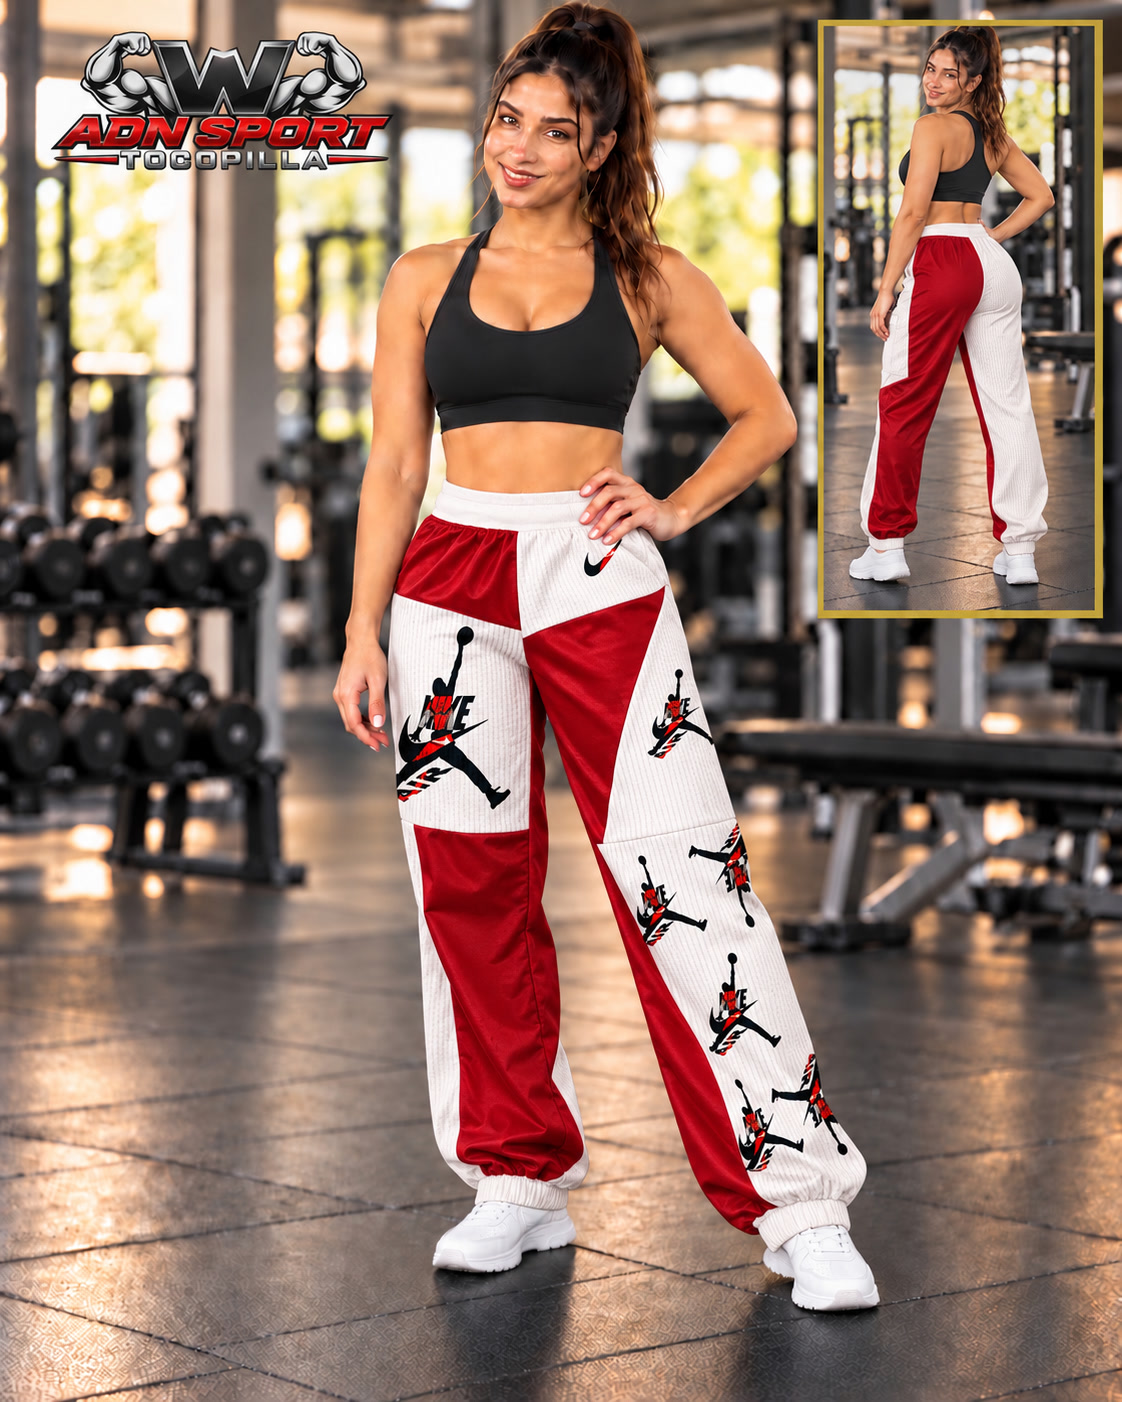
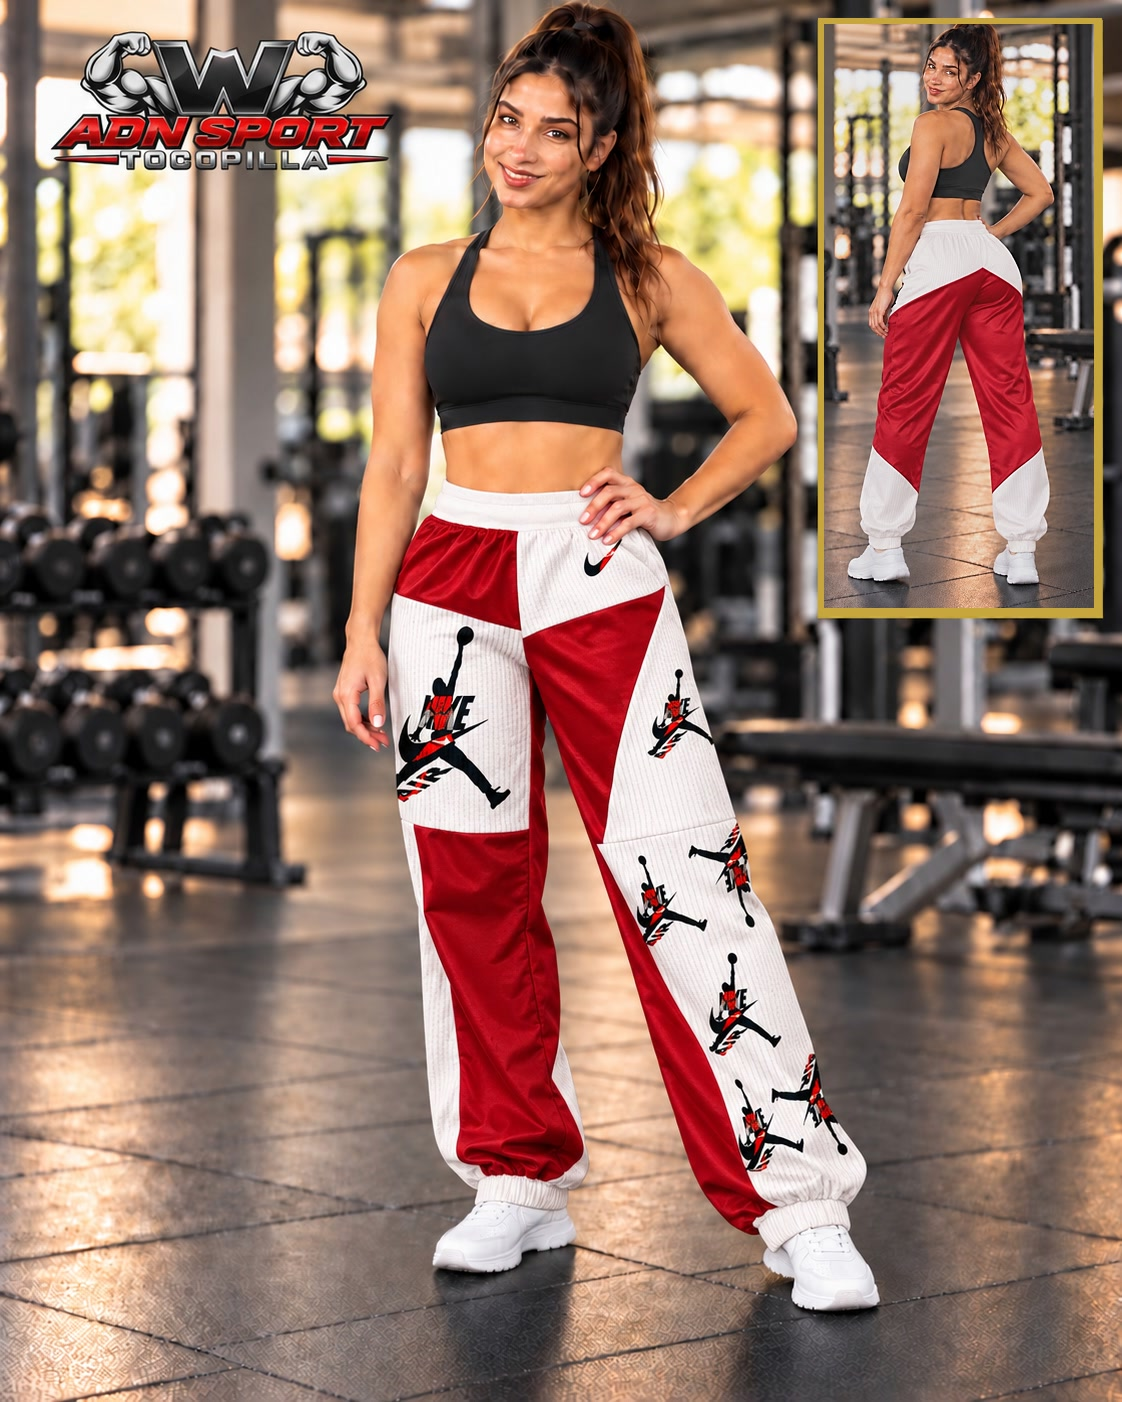
Tienda: cuadro de espaldas correcto en el pantalón jogger blanco y rojo (FOTO_V 45)
Claude-Session: https://claude.ai/code/session_013ZgZPSRHEDhMsqmx8Km842

Changed region(s): [[0.7175, 0.0, 0.9982, 0.4601], [0.7175, 0.2454, 0.7487, 0.276], [0.3743, 0.4907, 0.4055, 0.5214]]

diff --git a/tienda.html b/tienda.html
@@ -221,7 +221,7 @@ function hoyISO(){ return new Intl.DateTimeFormat("en-CA", { timeZone:"America/S
 function ahoraTxt(){ var f = new Intl.DateTimeFormat("sv-SE", { timeZone:"America/Santiago", year:"numeric", month:"2-digit", day:"2-digit", hour:"2-digit", minute:"2-digit" }).format(new Date()); return f.replace("T", " ").slice(0, 16); }
 function normTxt(s){ return String(s || "").toUpperCase().normalize("NFD").replace(/[̀-ͯ]/g, ""); }
 /* Al cambiar una foto en img/tienda/ (mismo nombre), subir FOTO_V para que los teléfonos no muestren la antigua. */
-var FOTO_V = "44";
+var FOTO_V = "45";
 function fotoUrl(f){ return f ? f + (f.indexOf("?") < 0 ? "?v=" + FOTO_V : "") : ""; }
 function iconoCat(c){ var x = CATS.filter(function(k){ return k[0] === c; })[0]; return x ? x[1] : "📦"; }
 function toast(t, ms){ var el = $("toast"); el.textContent = t; el.style.display = "block"; clearTimeout(toast.t); toast.t = setTimeout(function(){ el.style.display = "none"; }, ms || 2600); }
@@ -303,7 +303,7 @@ setInterval(function(){ if(pend.length) enviarPendientes(); }, 30000);
    el computador"): los datos se vuelven a pedir a la planilla cada 30 s mientras la página está a la vista (sin una ficha
    abierta), y cada minuto se revisa tienda-version.txt: si hay una versión nueva de la página, se recarga sola.
    Cada vez que se cambie tienda.html, subir TIENDA_VERSION y tienda-version.txt juntos (AAAAMMDDNN). */
-var TIENDA_VERSION = "2026102539";
+var TIENDA_VERSION = "2026102601";
 setInterval(function(){ if(clave && !document.hidden && $("velo").hidden && !$("app").hidden) enviarPendientes().then(function(){ cargar(true); }); }, 30000);
 function revisarVersion(){
  fetch("tienda-version.txt?t=" + Date.now(), { cache:"no-store" }).then(function(r){ return r.ok ? r.text() : ""; }).then(function(v){

diff --git a/tarjeta.html b/tarjeta.html
@@ -2443,7 +2443,7 @@ function renderEvolucion(s){
     oculta con «Ya no lo vendo» no llega. «Lo quiero» abre una ventanita (foto grande, cantidad, total)
     y después WhatsApp a Sara con el pedido. El stock solo baja cuando ella cobra en la tienda.
     Al cambiar una foto de img/tienda/ con el mismo nombre, subir TIENDA_FOTO_V junto con FOTO_V de tienda.html. */
- var TIENDA_FOTO_V = "44", TIENDA_WSP = "56975196394";
+ var TIENDA_FOTO_V = "45", TIENDA_WSP = "56975196394";
  /* Interruptor (25-10-2026, la dueña: "no quiero publicar la tienda el lunes porque compré ropa en Shein y no sé
     cuándo me llegaría"): en false la tarjeta no muestra la tienda aunque la Versión 25 esté instalada.
     Ponerlo en true (y subir TARJETA_VERSION) solo cuando ella lo pida. */
@@ -2560,7 +2560,7 @@ function renderEvolucion(s){
     compara TARJETA_VERSION con tarjeta-version.txt del sitio y, si hay
     una más nueva, la página se recarga sola (el nombre ya aparece
     puesto). Al cambiar tarjeta.html, subir los DOS números juntos. */
- var TARJETA_VERSION = "2026102504", ultimaRevisionVersion = 0;
+ var TARJETA_VERSION = "2026102601", ultimaRevisionVersion = 0;
 function recargarFresco_(v){
  /* Recarga pidiendo la página nueva (11-10-2026): location.reload() podía traer la copia
     guardada del teléfono (GitHub guarda la página ~10 min) y el socio seguía con la versión

diff --git a/CLAUDE.md b/CLAUDE.md
@@ -1538,7 +1538,7 @@ Versión 23). Celular y compu ven el mismo inventario.
   guardado como «Ropa deportiva» se muestra como «Ropa mujer»; en los enlaces usar `cat=Ropa%20mujer` o `cat=Ropa%20hombre`).
   Ropa deportiva de mujer (24-10-2026): cada talla y color es un producto aparte con su código 200… (la ropa no trae
   código). Conjunto Gym Work 3 piezas blanco/negro M ($13.609 → $22.000; foto de espaldas con la modelo + cuadro con la foto original del conjunto, en 900 px de alto), Short scrunch M.Minute negro S (foto `img/tienda/short-scrunch-negro.jpg`, con modelo + cuadro de espalda) y azul oscuro S (foto `img/tienda/short-scrunch-azul.jpg`, igual)
-  (pack de 2 por $7.512 → $3.756 c/u, venta $9.000), Conjunto Easithlete negro M ($8.568; foto con la modelo + cuadro de la espalda, 900 px), Leggings Yefecy negro M ($11.001 → $16.000; foto con modelo de frente + cuadro de espalda), Conjunto Easithlete a $15.000; short negro a $10.000. Ropa de hombre: Polera «Stronger every day» negra M ($7.204 → $13.000; modelo hombre de espaldas + cuadro de frente), Polera Rise LYT raglán negra M ($6.701 → $14.000; modelo hombre de espaldas + cuadro de frente; adelante el diseño de espinas ancho; atrás uno distinto, grande, con alas arriba y una punta larga por la columna), Polera Gym Rark «Never give up» negra M ($7.793 → $15.000; modelo de espaldas + cuadro de frente con el toro), Polera de compresión Gym Rark negra M ($7.051 → $13.000; modelo de espaldas: cuernos blancos grandes + franja roja larga por la columna; cuadro con el mismo modelo de frente con «AGILITY», hecho en ChatGPT), Polera «This is my therapy» negra L ($7.323 → $14.000; modelo de espaldas + cuadro de frente; adelante lleva el toro chico en el pecho izquierdo), Musculosa «//Strength» blanca y negra M ($8.000 → $11.000; foto con modelo hombre de ChatGPT), Musculosa «Boston EST.1997» gris M ($8.000 → $12.000), Musculosa Batman blanca M ($8.000 → $11.000). Short Jogging rojo M (25-10-2026, $7.000 → $13.000; foto `img/tienda/short-jogging-rojo.jpg`: modelo de frente con el logo + cuadro de lado con «JOGGING»; ChatGPT usó el modelo de las máquinas, no el de las poleras). Ropa mujer: Polera Cherry rosada crop S ($3.000 → $6.000) y Polera tie-dye negra y blanca crop S ($2.000 → $5.000), Calza flare camuflaje S-M ($7.000 → $10.000; modelo con el camuflaje verde oliva real + cuadro de espalda), Calza leopardo con malla S ($8.000 → $12.000; modelo de frente + cuadro de espalda hecho en ChatGPT), Calza tie-dye azul y amarilla M ($8.000 → $11.000; foto con modelo de lado + cuadro de frente), Calza tie-dye morada y negra con frunce M ($7.000 → $10.000; foto `img/tienda/calza-tie-dye-morada-negra.jpg`: modelo de espaldas + cuadro de frente); Pantalón cargo LA negro, talla S oversize (25-10-2026, 1 unidad, ya lo tiene: $19.000 → $25.000; foto `img/tienda/pantalon-cargo-la-negro.jpg`: modelo de frente con el logo «LA» + cuadro de espaldas); Pantalón cargo jogger azul marino M (26-10-2026, $8.000 → $14.000; foto `img/tienda/pantalon-cargo-jogger-azul.jpg`: modelo de frente + cuadro de espaldas); Pantalón jogger blanco y rojo M (26-10-2026, $5.000 → $10.000; estampados tipo Jordan/Nike Air: se carga sin «Nike» ni «Jordan» en el nombre; foto `img/tienda/pantalon-jogger-blanco-rojo.jpg`, ya armada por la dueña con logo y cuadro de espaldas); fotos con modelo hechas por la dueña en ChatGPT. Suplementos en pausa.
+  (pack de 2 por $7.512 → $3.756 c/u, venta $9.000), Conjunto Easithlete negro M ($8.568; foto con la modelo + cuadro de la espalda, 900 px), Leggings Yefecy negro M ($11.001 → $16.000; foto con modelo de frente + cuadro de espalda), Conjunto Easithlete a $15.000; short negro a $10.000. Ropa de hombre: Polera «Stronger every day» negra M ($7.204 → $13.000; modelo hombre de espaldas + cuadro de frente), Polera Rise LYT raglán negra M ($6.701 → $14.000; modelo hombre de espaldas + cuadro de frente; adelante el diseño de espinas ancho; atrás uno distinto, grande, con alas arriba y una punta larga por la columna), Polera Gym Rark «Never give up» negra M ($7.793 → $15.000; modelo de espaldas + cuadro de frente con el toro), Polera de compresión Gym Rark negra M ($7.051 → $13.000; modelo de espaldas: cuernos blancos grandes + franja roja larga por la columna; cuadro con el mismo modelo de frente con «AGILITY», hecho en ChatGPT), Polera «This is my therapy» negra L ($7.323 → $14.000; modelo de espaldas + cuadro de frente; adelante lleva el toro chico en el pecho izquierdo), Musculosa «//Strength» blanca y negra M ($8.000 → $11.000; foto con modelo hombre de ChatGPT), Musculosa «Boston EST.1997» gris M ($8.000 → $12.000), Musculosa Batman blanca M ($8.000 → $11.000). Short Jogging rojo M (25-10-2026, $7.000 → $13.000; foto `img/tienda/short-jogging-rojo.jpg`: modelo de frente con el logo + cuadro de lado con «JOGGING»; ChatGPT usó el modelo de las máquinas, no el de las poleras). Ropa mujer: Polera Cherry rosada crop S ($3.000 → $6.000) y Polera tie-dye negra y blanca crop S ($2.000 → $5.000), Calza flare camuflaje S-M ($7.000 → $10.000; modelo con el camuflaje verde oliva real + cuadro de espalda), Calza leopardo con malla S ($8.000 → $12.000; modelo de frente + cuadro de espalda hecho en ChatGPT), Calza tie-dye azul y amarilla M ($8.000 → $11.000; foto con modelo de lado + cuadro de frente), Calza tie-dye morada y negra con frunce M ($7.000 → $10.000; foto `img/tienda/calza-tie-dye-morada-negra.jpg`: modelo de espaldas + cuadro de frente); Pantalón cargo LA negro, talla S oversize (25-10-2026, 1 unidad, ya lo tiene: $19.000 → $25.000; foto `img/tienda/pantalon-cargo-la-negro.jpg`: modelo de frente con el logo «LA» + cuadro de espaldas); Pantalón cargo jogger azul marino M (26-10-2026, $8.000 → $14.000; foto `img/tienda/pantalon-cargo-jogger-azul.jpg`: modelo de frente + cuadro de espaldas); Pantalón jogger blanco y rojo M (26-10-2026, $5.000 → $10.000; estampados tipo Jordan/Nike Air: se carga sin «Nike» ni «Jordan» en el nombre; foto `img/tienda/pantalon-jogger-blanco-rojo.jpg`, armada por la dueña con logo; el cuadro de espaldas se cambió el 26-10-2026 por uno fiel al pantalón real: atrás las dos piernas iguales, blanco arriba, panel rojo en V al medio y blanco abajo); fotos con modelo hechas por la dueña en ChatGPT. Suplementos en pausa.
   Bebestibles en pausa hasta que llegue más mercadería. Un enlace `?nuevo=1` con un código que ya existe abre ese producto (aunque cambie el nombre). **En los enlaces, todo carácter no ASCII va codificado (á → %C3%A1)**: el de la polera Rise LYT llevaba «raglán» sin codificar, el chat volvió a codificar el enlace y el producto quedó «Polera%20Rise…» en Bebestibles; desde el 24-10-2026 `sinPorcentajes` decodifica los parámetros y `repararCodificados` arregla y vuelve a guardar los nombres que quedaron con %XX.
   **Todo se actualiza solo (24-10-2026, la dueña: "si hago una modificación en el celular, que se cambie igual en el
   computador"):** los datos se piden a la planilla cada 30 s si la página está a la vista y sin ficha abierta, y cada
